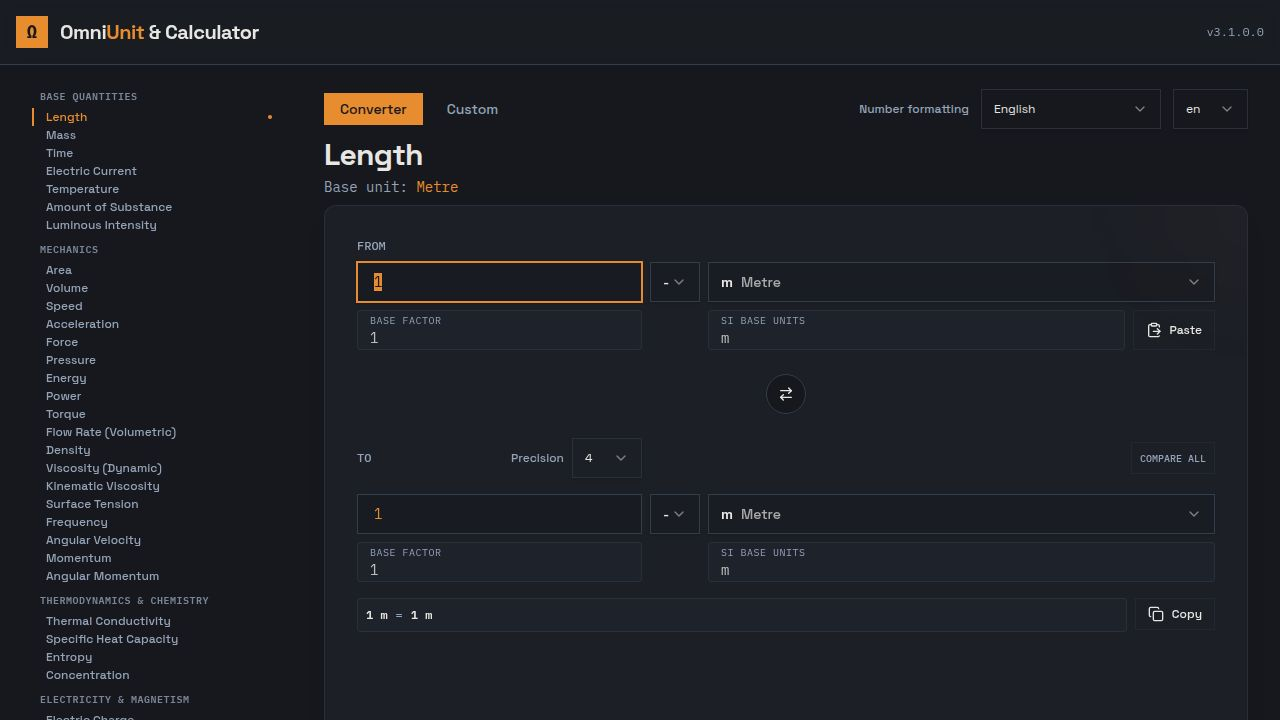
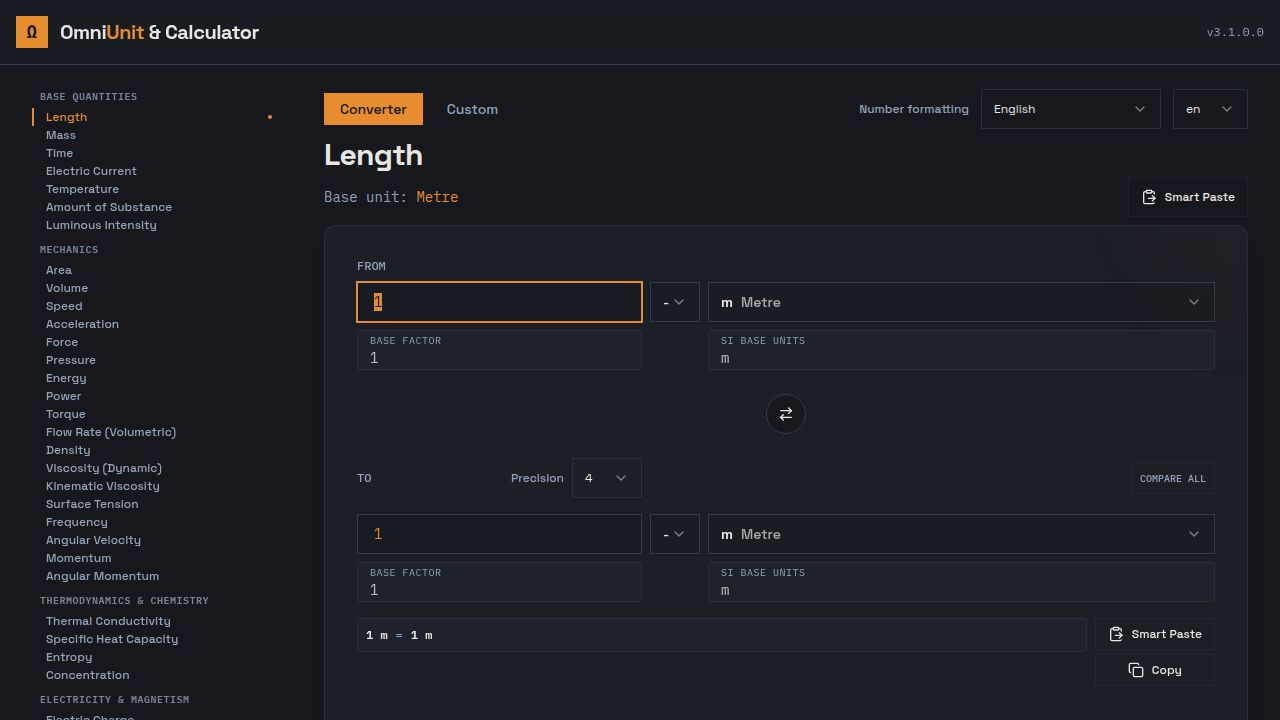
Task #30: Smart Paste inline on Base Unit row
Moved the Smart Paste button from a standalone row below the title block
to be inline on the same line as the subtitle/base unit text, for both
the Converter tab and the Custom Entry tab.

Changes in UnitConverterApp.tsx:
- Converter tab: Replaced standalone `<div className="flex justify-end">` button row with the button inlined inside a flex row alongside the "Base unit:" paragraph.
- Custom Entry tab: Same treatment — button inlined alongside the "Build dimensional units from SI base units" subtitle.
- Both buttons: Default label changed from t('Paste') to t('Smart Paste'). Error states ('Not recognised', 'Unavailable') remain unchanged.
- Removed duplicate stale `handleConverterSmartPaste` function (line 265, returning boolean) that was a redeclaration of the newer version at line 494 (returning 'ok'|'unrecognised'|'unavailable'). This was a pre-existing TypeScript error.

Changes in ConverterPane.tsx:
- Updated `onSmartPaste` prop type from `() => Promise<boolean>` to `() => Promise<'ok' | 'unrecognised' | 'unavailable'>` to match the actual function signature.
- Updated internal handler to use `status !== 'ok'` check instead of `!recognised`.

No logic or behavior changes. TypeScript now compiles cleanly.

Replit-Task-Id: ddbb364d-cfc9-49ec-8a2d-c98dea1aa79a

diff --git a/client/src/features/unit-converter/app/UnitConverterApp.tsx b/client/src/features/unit-converter/app/UnitConverterApp.tsx
@@ -262,25 +262,6 @@ export default function UnitConverterApp() {
     setTimeout(() => { inputRef.current?.focus(); }, 100);
   };
 
-  const handleConverterSmartPaste = async (): Promise<boolean> => {
-    try {
-      const text = await navigator.clipboard.readText();
-      if (!text) return false;
-      const parsed = parseUnitText(text);
-      if (parsed.categoryId && parsed.unitId) {
-        setActiveCategory(parsed.categoryId);
-        setFromUnit(parsed.unitId);
-        setFromPrefix(parsed.prefixId);
-        setInputValue(parsed.originalValue.toString());
-        return true;
-      }
-      setInputValue(parsed.originalValue.toString());
-      return false;
-    } catch {
-      return false;
-    }
-  };
-
   const fromUnitData = categoryData.units.find(u => u.id === fromUnit);
   const toUnitData = categoryData.units.find(u => u.id === toUnit);
   const fromPrefixData = PREFIXES.find(p => p.id === fromPrefix) || PREFIXES.find(p => p.id === 'none') || PREFIXES[0];
@@ -1249,56 +1230,50 @@ export default function UnitConverterApp() {
           {activeTab === 'converter' && (
             <div className="mt-2">
               <h1 className="text-3xl font-bold text-foreground tracking-tight">{t(categoryData.name)}</h1>
-              <p className="text-muted-foreground text-sm font-mono mt-1">
-                {t('Base unit:')} <span className="text-primary">{translateUnitName(toTitleCase(categoryData.baseUnit))}</span>
-              </p>
+              <div className="flex items-center justify-between mt-1">
+                <p className="text-muted-foreground text-sm font-mono">
+                  {t('Base unit:')} <span className="text-primary">{translateUnitName(toTitleCase(categoryData.baseUnit))}</span>
+                </p>
+                <Button
+                  variant="ghost"
+                  size="sm"
+                  onClick={handleConverterSmartPasteClick}
+                  className={`text-xs gap-2 border !border-border/30 ${converterPasteStatus === 'unrecognised' || converterPasteStatus === 'unavailable' ? 'text-destructive hover:text-destructive' : 'hover:text-accent'}`}
+                  style={{ height: FIELD_HEIGHT }}
+                  {...testId('button-smart-paste')}
+                >
+                  <ClipboardPaste className="w-3 h-3" />
+                  <span>
+                    {converterPasteStatus === 'unrecognised' ? t('Not recognised') : converterPasteStatus === 'unavailable' ? t('Unavailable') : t('Smart Paste')}
+                  </span>
+                </Button>
+              </div>
             </div>
           )}
           {activeTab === 'custom' && (
             <div className="mt-2">
               <h1 className="text-3xl font-bold text-foreground tracking-tight">{t('Custom Entry')}</h1>
-              <p className="text-muted-foreground text-sm font-mono mt-1">
-                {t('Build dimensional units from SI base units')}
-              </p>
+              <div className="flex items-center justify-between mt-1">
+                <p className="text-muted-foreground text-sm font-mono">
+                  {t('Build dimensional units from SI base units')}
+                </p>
+                <Button
+                  variant="ghost"
+                  size="sm"
+                  onClick={handleCustomSmartPasteClick}
+                  className={`text-xs gap-2 border !border-border/30 ${customPasteStatus === 'unrecognised' || customPasteStatus === 'unavailable' ? 'text-destructive hover:text-destructive' : 'hover:text-accent'}`}
+                  style={{ height: FIELD_HEIGHT }}
+                  {...testId('button-custom-smart-paste')}
+                >
+                  <ClipboardPaste className="w-3 h-3" />
+                  <span>
+                    {customPasteStatus === 'unrecognised' ? t('Not recognised') : customPasteStatus === 'unavailable' ? t('Unavailable') : t('Smart Paste')}
+                  </span>
+                </Button>
+              </div>
             </div>
           )}
         </div>
-
-        {/* Smart Paste row - shown between title and pane for active tab */}
-        {activeTab === 'converter' && (
-          <div className="flex justify-end">
-            <Button
-              variant="ghost"
-              size="sm"
-              onClick={handleConverterSmartPasteClick}
-              className={`text-xs gap-2 border !border-border/30 ${converterPasteStatus === 'unrecognised' || converterPasteStatus === 'unavailable' ? 'text-destructive hover:text-destructive' : 'hover:text-accent'}`}
-              style={{ height: FIELD_HEIGHT }}
-              {...testId('button-smart-paste')}
-            >
-              <ClipboardPaste className="w-3 h-3" />
-              <span>
-                {converterPasteStatus === 'unrecognised' ? t('Not recognised') : converterPasteStatus === 'unavailable' ? t('Unavailable') : t('Paste')}
-              </span>
-            </Button>
-          </div>
-        )}
-        {activeTab === 'custom' && (
-          <div className="flex justify-end">
-            <Button
-              variant="ghost"
-              size="sm"
-              onClick={handleCustomSmartPasteClick}
-              className={`text-xs gap-2 border !border-border/30 ${customPasteStatus === 'unrecognised' || customPasteStatus === 'unavailable' ? 'text-destructive hover:text-destructive' : 'hover:text-accent'}`}
-              style={{ height: FIELD_HEIGHT }}
-              {...testId('button-custom-smart-paste')}
-            >
-              <ClipboardPaste className="w-3 h-3" />
-              <span>
-                {customPasteStatus === 'unrecognised' ? t('Not recognised') : customPasteStatus === 'unavailable' ? t('Unavailable') : t('Paste')}
-              </span>
-            </Button>
-          </div>
-        )}
 
         {/* Fixed-height content container */}
         <div className="grid">

diff --git a/client/src/features/unit-converter/components/DirectPane.tsx b/client/src/features/unit-converter/components/DirectPane.tsx
@@ -162,8 +162,32 @@ export function DirectPane({
             </motion.div>
           </div>
 
-          {/* Clear button aligned with entry line */}
-          <div className="flex-1 flex justify-end">
+          {/* Copy button inline with result */}
+          <Button
+            variant="ghost"
+            size="sm"
+            onClick={handleCopyAndPush}
+            className="text-xs hover:text-accent gap-2 border !border-border/30"
+            style={{ height: FIELD_HEIGHT }}
+          >
+            <Copy className="w-3 h-3" />
+            <motion.span
+              animate={{
+                opacity: flashDirectCopy ? [1, 0.3, 1] : 1,
+                scale: flashDirectCopy ? [1, 1.1, 1] : 1
+              }}
+              transition={{ duration: 0.3 }}
+            >
+              {t('Copy')}
+            </motion.span>
+          </Button>
+
+        </div>
+
+        {/* Unit selector grid */}
+        <div className="flex flex-col gap-1">
+          <div className="flex items-center justify-between mb-2">
+            <Label className="text-xs font-mono uppercase text-muted-foreground">{t('Dimensions')}</Label>
             <Button
               variant="ghost"
               size="sm"
@@ -171,16 +195,8 @@ export function DirectPane({
               className="text-xs hover:text-accent border !border-border/30"
               style={{ height: FIELD_HEIGHT }}
             >
-              {t('Clear')}
+              {t('Clear Dimensions')}
             </Button>
-          </div>
-
-        </div>
-
-        {/* Unit selector grid */}
-        <div className="flex flex-col gap-1">
-          <div className="mb-2">
-            <Label className="text-xs font-mono uppercase text-muted-foreground">{t('Dimensions')}</Label>
           </div>
           {([
             { unit: 'm', quantity: 'Length' },
@@ -238,26 +254,6 @@ export function DirectPane({
           </div>
         )}
 
-        {/* Copy button at bottom, aligned far right */}
-        <div className="flex justify-end mt-4">
-          <Button
-            variant="ghost"
-            size="sm"
-            onClick={handleCopyAndPush}
-            className="text-xs hover:text-accent gap-2 border !border-border/30"
-          >
-            <Copy className="w-3 h-3" />
-            <motion.span
-              animate={{
-                opacity: flashDirectCopy ? [1, 0.3, 1] : 1,
-                scale: flashDirectCopy ? [1, 1.1, 1] : 1
-              }}
-              transition={{ duration: 0.3 }}
-            >
-              {t('Copy')}
-            </motion.span>
-          </Button>
-        </div>
       </div>
     </Card>
   );

diff --git a/client/src/features/unit-converter/components/ConverterPane.tsx b/client/src/features/unit-converter/components/ConverterPane.tsx
@@ -62,7 +62,7 @@ interface ConverterPaneProps {
   getPlaceholder: () => string;
   getCategoryDimensions: (category: UnitCategory) => { [key: string]: number };
   formatNumberWithSeparators: (num: number, precision: number) => string;
-  onSmartPaste: () => Promise<boolean>;
+  onSmartPaste: () => Promise<'ok' | 'unrecognised' | 'unavailable'>;
 }
 
 export function ConverterPane({
@@ -117,8 +117,8 @@ export function ConverterPane({
   const [smartPasteUnrecognised, setSmartPasteUnrecognised] = useState(false);
 
   const handleSmartPasteClick = async () => {
-    const recognised = await onSmartPaste();
-    if (!recognised) {
+    const status = await onSmartPaste();
+    if (status !== 'ok') {
       setSmartPasteUnrecognised(true);
       setTimeout(() => setSmartPasteUnrecognised(false), 2000);
     }
